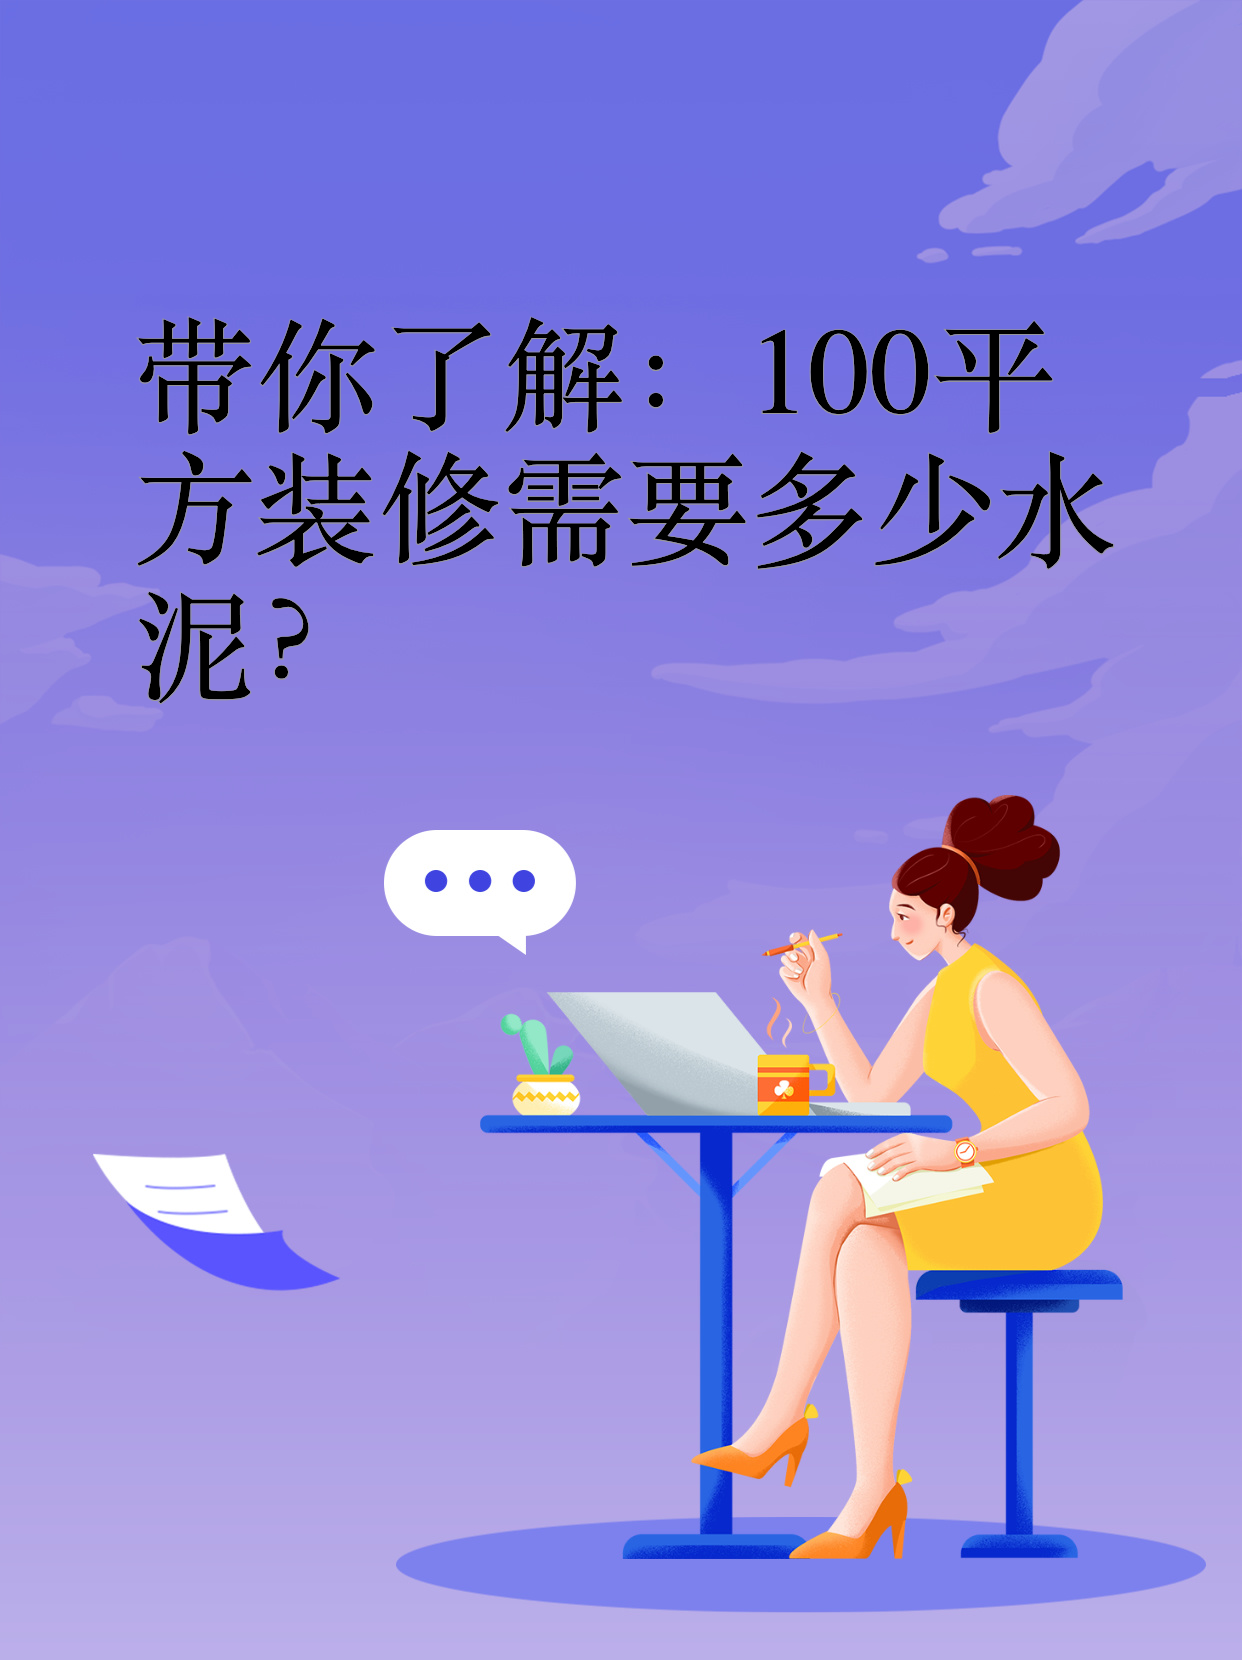
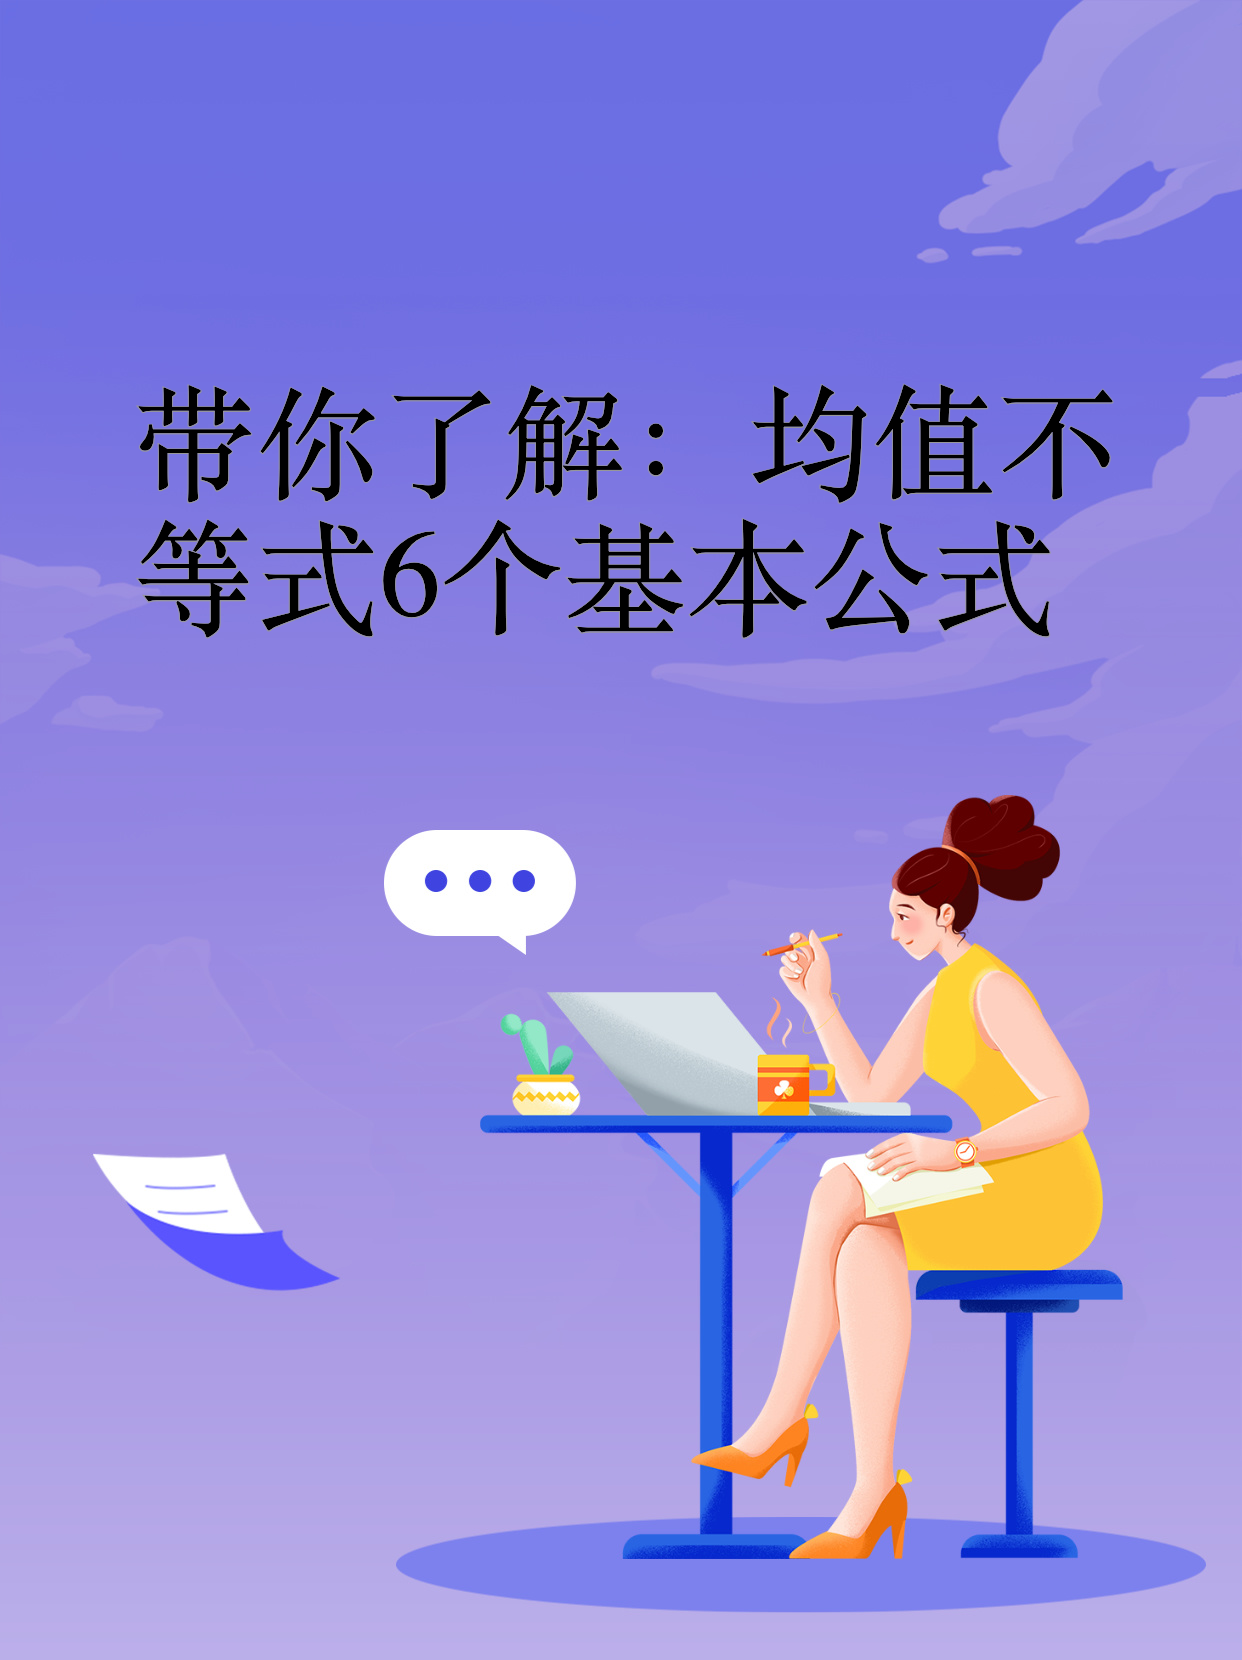
feat: 获取内容

Changed region(s): [[0.0918, 0.1843, 0.8873, 0.4301], [0.8261, 0.3687, 0.8567, 0.3994], [0.2754, 0.3687, 0.306, 0.3994]]

diff --git a/src/App.vue b/src/App.vue
@@ -11,15 +11,17 @@ let Teamid = Cookies.get('TeamId')
 let now_page_detail_info = {}
 let change_cover_image_obj = {}
 let save_is_change_cover = false
+let change_content = ""
+let save_is_change_content = false
 
 // ========================================== 公用方法 ===========================================
 // 自定义post
-function my_post(url, data) {
+function my_post(url, data, headers = null) {
     return new Promise((resolve, reject) => {
         GM_xmlhttpRequest({
             method: 'POST',
             url: url,
-            headers: {
+            headers: headers ? headers : {
                 'Content-Type': 'application/json',
                 'Token': token,
                 'Teamid': Teamid
@@ -123,10 +125,18 @@ function interceptRequest() {
     XMLHttpRequest.prototype.send = function () {
         if (this._url.includes('/article/recreate/update')) {
             let data = JSON.parse(arguments[0])
+            // 修改标题
             data.title = now_title.value
+            // 修改封面
             if (save_is_change_cover) {
                 data.contents[1] = change_cover_image_obj
                 save_is_change_cover = false
+            }
+            // 修改内容
+            if (save_is_change_content) {
+                data.contents[0].content = change_content
+                data.contents[0].content_html = change_content
+                save_is_change_content = false
             }
             arguments[0] = JSON.stringify(data)
             console.log('最终参数', arguments[0])
@@ -142,6 +152,7 @@ function interceptRequest() {
  * @param url 图片地址或本地路径
  */
 // 将图片转为 Blob
+
 function fetchImageAsBlob(url) {
     return new Promise((resolve, reject) => {
         GM_xmlhttpRequest({
@@ -185,7 +196,9 @@ function put_image_to_oss(result1, imageBlob) {
 }
 
 // 改变封面
+const cover_loading = ref(false)
 async function change_cover() {
+    cover_loading.value = true
     ElMessage.warning('正在修改封面...')
     // 0.首先创建封面图片
     const result0 = await my_post(import.meta.env.VITE_API_URL + '/api/template/submit_title', { "title": now_title.value })
@@ -226,9 +239,7 @@ async function change_cover() {
     const save_el = (await getElementsByXPathAsync("//button/span[text()='保 存']/parent::button"))[0]
     save_el.click()
 
-    // 暂时不刷新，测试一下是否有问题再说
-    // await getElementsByXPathAsync("//div[@class='ant-message']//span[text()='保存成功']")
-    // window.location.reload()
+    cover_loading.value = false
 
 }
 // ========================================== 列表相关处理 ===========================================
@@ -302,32 +313,22 @@ const task_titles = ref([]) // 当前任务AI生成标题列表
 const now_title = ref('')
 const task_titles_loading = ref(false) // 当前任务AI生成标题列表加载状态
 // 通过AI获取延伸话题
-function getTitles() {
+async function getTitles() {
     task_titles_loading.value = true
     task_titles.value = []
-    GM_xmlhttpRequest({
-        method: 'POST',
-        url: 'https://api.coze.cn/v1/workflow/run',
-        headers: {
-            'Content-Type': 'application/json',
-            Authorization: 'Bearer pat_hZYDpQzgCRxVqb8LHN8pTb4w2R9T00bGjUQr2vfiBVf8S3dk97Pjl1kKZSShBz4I',
+    const result = await my_post('https://api.coze.cn/v1/workflow/run', {
+        workflow_id: '7440838063737225243',
+        parameters: {
+            BOT_USER_INPUT: now_task_keyword.value,
         },
-        data: JSON.stringify({
-            workflow_id: '7438579954335989823',
-            parameters: {
-                BOT_USER_INPUT: now_task_keyword.value,
-            },
-        }),
-        onload: function (res) {
-            let parse_res = JSON.parse(res.responseText)
-            task_titles.value = JSON.parse(parse_res.data).output
-            task_titles_loading.value = false
-        },
-        onerror: function (err) {
-            console.log(err)
-            task_titles_loading.value = false
-        },
+    }, {
+        'Content-Type': 'application/json',
+        Authorization: 'Bearer pat_gmrxgGDTRBV2cnGPx9vrhOHx4IMiShHUBKTXkVn8ql66xMuG7219YySM8P26rSR8',
     })
+
+    task_titles.value = JSON.parse(result.data).output
+    task_titles_loading.value = false
+
 }
 
 // 点击修改标题
@@ -354,6 +355,34 @@ async function replaceTitleElement() {
         originElement.style.display = 'none'
         originElement.parentNode.appendChild(input)
     }
+
+}
+// ========================================== 内容相关处理 ===========================================
+// 通过AI获取内容
+const content_loading = ref(false)
+async function changeContent() {
+    content_loading.value = true
+    let need_title = ''
+    try {
+        need_title = now_title.value.split('：')[1];
+    } catch {
+        need_title = now_title.value
+    }
+    const result = await my_post('https://api.coze.cn/v1/workflow/run', {
+        workflow_id: '7440845043767722024',
+        parameters: {
+            BOT_USER_INPUT: need_title,
+        },
+    }, {
+        'Content-Type': 'application/json',
+        Authorization: 'Bearer pat_gmrxgGDTRBV2cnGPx9vrhOHx4IMiShHUBKTXkVn8ql66xMuG7219YySM8P26rSR8',
+    })
+
+    change_content = JSON.parse(result.data).output
+    content_loading.value = false
+    save_is_change_content = true
+    const save_el = (await getElementsByXPathAsync("//button/span[text()='保 存']/parent::button"))[0]
+    save_el.click()
 
 }
 // ========================================== 保存、审核相关处理 ===========================================
@@ -385,8 +414,10 @@ async function listen_submit_click() {
                 {{ item }}
             </div>
         </div>
-        <el-button type="danger">获取内容</el-button>
-        <el-button type="danger" @click="change_cover()">修改封面</el-button>
+        <el-button type="primary" @click="changeContent()" v-loading="content_loading"
+            :disabled="content_loading">获取内容</el-button>
+        <el-button type="danger" @click="change_cover()" v-loading="cover_loading"
+            :disabled="cover_loading">修改封面</el-button>
     </div>
     <!-- <el-dialog v-model="dialogVisible" title="" width="100%" :destroy-on-close="true">
         <div class="dialog-content"></div>
